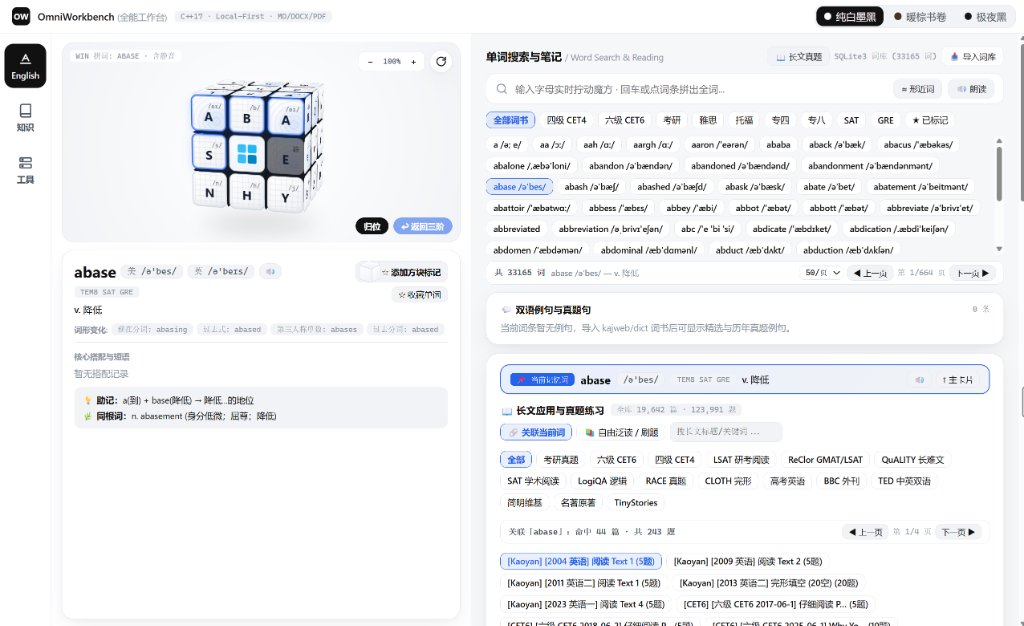
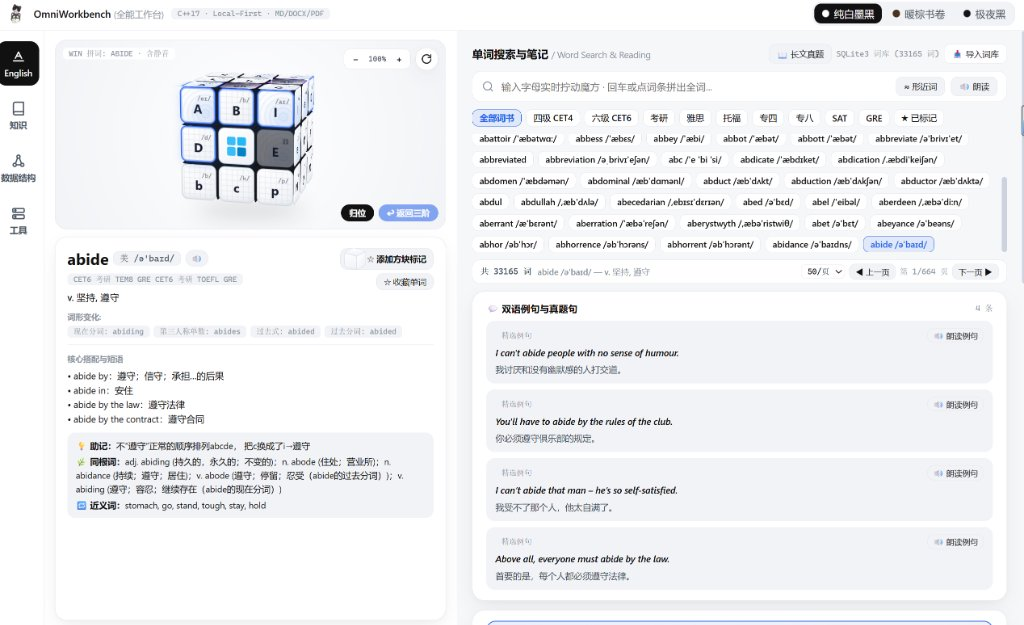
更新README四张最新界面预览图并添加SECURITY.md安全合规协议与MIT开源许可证

diff --git a/SECURITY.md b/SECURITY.md
@@ -1,0 +1,41 @@
+# Security Policy & Acceptable Use (安全协议与合规使用规范)
+
+本项目 **OmniWorkbench (全能工作台)** 是一款面向个人学习、笔记整理与离线算法的开源桌面工具。为保护作者与所有使用者的合法权益、防止恶意篡改或滥用，请在使用、二次开发或分发本项目前仔细阅读并遵守以下安全协议。
+
+---
+
+## 1. 架构安全边界说明 (Security Architecture)
+
+- **仅限本地环回监听 (Localhost Only)**：内嵌 HTTP 服务默认仅绑定至 `127.0.0.1`，不对外网开放。**严禁**将本工具直接反向代理或暴露至公网/不受信任的局域网，以免本地知识库文件读写与 `g++` 编译运行接口被未授权访问。
+- **本地编译器执行风险提示**：`数据结构` 模块中的随堂练习框会调用本机 `g++` 编译并执行你输入的代码。请**仅运行自己编写或来源可信的代码**，切勿直接粘贴、编译或运行来历不明的 C/C++ 代码，避免对本机文件或系统造成损害。
+- **本地数据隐私**：词库（`omni_dict.db`）、课程进度（`omni_ds_course.db`）与个人笔记均仅存储于你自己的设备本地，软件不会收集或上传任何用户数据。
+
+---
+
+## 2. 禁止恶意使用与反滥用条款 (Prohibited & Anti-Abuse Policy)
+
+任何个人、组织或第三方在使用、修改或再分发本项目源码或构建产物时，**严禁**从事以下行为：
+
+1. **禁止植入恶意代码与二次打包投毒**：不得将本项目源码或可执行程序（`OmniWorkbench.exe` 等）捆绑木马、后门、勒索软件、挖矿程序、广告插件或间谍模块后对外分发；不得冒充本仓库官方版本发布未经授权的修改版安装包。
+2. **禁止用于非法攻击与未授权执行**：不得利用本项目的本地服务接口、子进程调用或编译运行功能进行权限提升、远程命令执行（RCE）、内网渗透或任何危害计算机信息系统安全的行为。
+3. **禁止盗版与违规抓取**：使用本工具导入外部词库、真题或学习资料时，须遵守对应开源协议与版权法规定，不得用于商业倒卖、未经授权的付费内容批量爬取或侵权分发。
+4. **禁止侵犯版权与去除署名**：二次分发或衍生作品必须保留原始版权声明、开源许可协议（[`LICENSE`](LICENSE)）及本安全协议声明。
+
+> 如因违反上述条款或自行运行第三方修改版/不可信代码造成的一切法律责任与数据损失，由行为人自行承担，本项目作者不承担任何连带责任。
+
+---
+
+## 3. 官方渠道校验建议 (Download Integrity)
+
+- 请仅从本 GitHub 官方仓库的 `releases/` 目录或 Release 页面下载预编译可执行文件，或直接拉取源码在本地通过 `make all` / `make windows` 自行编译。
+- 如发现有人冒用本项目名义分发带毒/篡改后的程序，请切勿运行并及时通过仓库反馈。
+
+---
+
+## 4. 安全漏洞负责任披露 (Reporting a Vulnerability)
+
+如果你在本项目中发现了潜在的安全隐患（如路径穿越、命令注入、XSS、本地提权等）：
+
+- **请勿**直接在公开的 GitHub Issues、评论区或社交平台披露漏洞利用细节（PoC / Exploit），以免被恶意人员利用伤害其他用户。
+- **正确反馈方式**：请通过本仓库顶部的 **Security → Advisories → Report a vulnerability**（GitHub Private Vulnerability Reporting）私密提交报告，说明复现步骤、影响范围及修复建议。
+- 维护者会在收到报告后尽快核实并发布安全修复版本。

diff --git a/README.md b/README.md
@@ -9,14 +9,17 @@
 
 ## 界面预览
 
-### 1. 3D 魔方英语词库与长文真题工作台
-![3D 魔方英语工作台](images/english_cube.jpg)
+### 1. 3D 魔方英语词库与双语例句工作台
+![3D 魔方英语词库工作台](images/english_cube.jpg)
 
-### 2. 横向 Wi-Fi 知识库与 WPS 排版互通编辑器
-![本地知识库与 WPS 排版编辑器](images/knowledge_vault.jpg)
+### 2. 长文应用与真题阅读在线练习
+![长文应用与真题阅读练习](images/english_reading.jpg)
 
-### 3. C++ 数据结构与算法工作台（《算法笔记》Ch0–13 全课程 + 在线编译评测）
-![C++ 数据结构与算法工作台](images/cpp_ds_workspace.png)
+### 3. 横向 Wi-Fi 知识库与侧栏 Word A4 互通编辑器
+![本地知识库与侧栏 Word A4 编辑器](images/knowledge_vault.png)
+
+### 4. C/C++ 数据结构与算法工作台（Ch0–13 全课程 + 彩色语法高亮练习框）
+![C++ 数据结构与算法工作台](images/cpp_ds_workspace.jpg)
 
 ## 核心模块
 
@@ -69,3 +72,10 @@ make windows
 cmake -B build-qt -DENABLE_QT6=ON
 cmake --build build-qt
 ```
+
+---
+
+## 安全协议与开源许可
+
+- **安全与合规使用协议**：详见 [`SECURITY.md`](SECURITY.md)。本项目默认仅绑定 `127.0.0.1` 本地使用，**严禁暴露到公网、严禁二次打包植入恶意代码或用于任何非法用途**；如发现安全漏洞请通过 GitHub Security Advisory 私密反馈，勿在公开 Issue 披露利用方式。
+- **开源许可证**：本项目基于 [`LICENSE`](LICENSE)（MIT License）开源，按“现状（AS-IS）”提供，再分发与二次开发须保留原始版权及许可声明。
